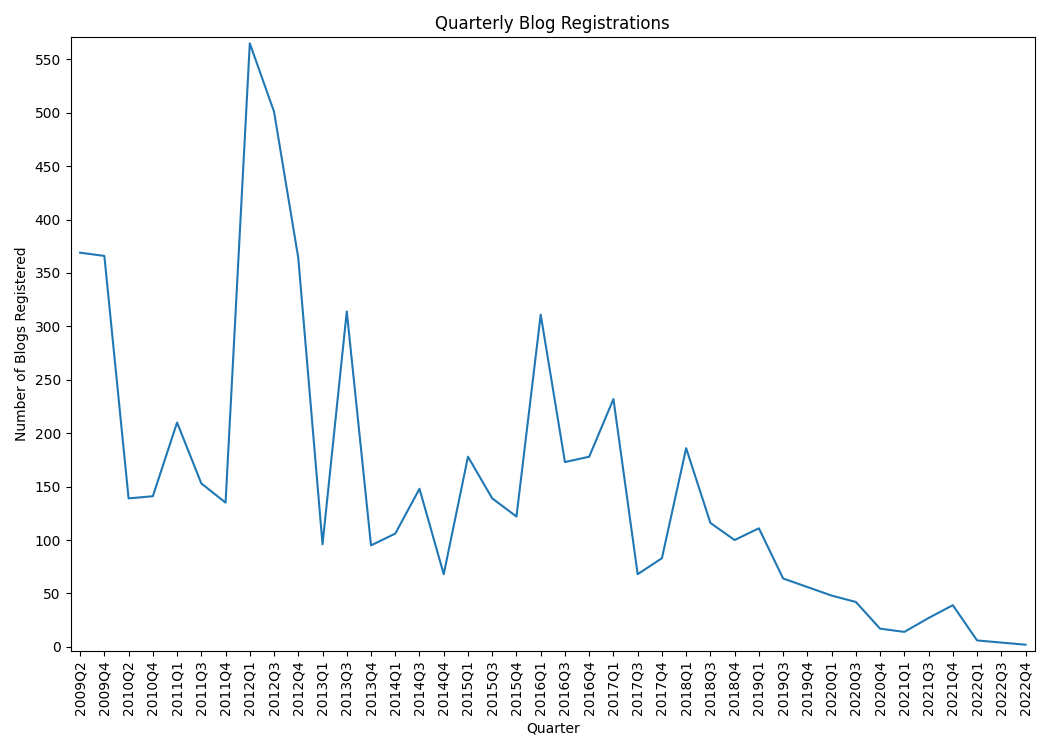
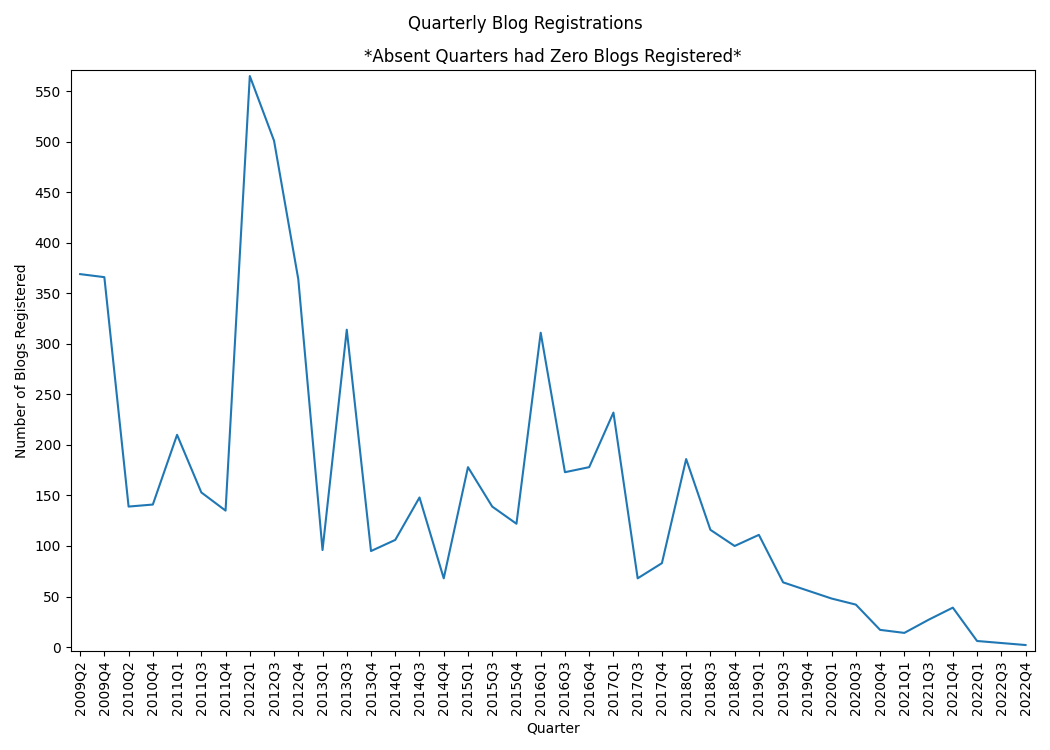
6/29

diff --git a/data.py b/data.py
@@ -35,7 +35,7 @@ class d:
                 index = username_list.index(f"{user}")
                 id = id_list[index]
 
-                user_site_ids, user_roles = self.wp.get_user_sites(id,cnx)
+                user_site_ids, user_roles, user_sites = self.wp.get_user_sites(id,cnx)
 
                 if len(user_site_ids[id]) >= 15:
                     data = [f'{user}', f'{len(user_site_ids[id])}']
@@ -87,16 +87,21 @@ class d:
                 index = username_list.index(f"{user}")
                 id = id_list[index] #user_id
 
-                user_site_ids, user_roles = self.wp.get_user_sites(id,cnx)
-                for blog_id in user_site_ids:
-                    try:
-                        path = user_blogs[blog_id]
-                    except KeyError as ke:
-                        key.append(blog_id) #37
-                        continue
+                user_site_ids, user_roles, user_sites = self.wp.get_user_sites(id,cnx)
+                try:
+                    sites = user_site_ids[id]
 
-                    data = [f'{id}', f'{user}', f'{blog_id}', f'{path}']
-                    writer.writerow(data)
+                    for blog_id in user_site_ids[id]:
+                        try:
+                            path = user_blogs[blog_id]
+                        except KeyError as ke:
+                            key.append(blog_id) #37
+                            continue
+
+                        data = [f'{id}', f'{user}', f'{blog_id}', f'{path}']
+                        writer.writerow(data)
+                except KeyError as ke:
+                    continue
 
 
     def userdata_csv(self,username_list,id_list,user_dates,yearly_user_reg,cnx) -> None:
@@ -106,7 +111,7 @@ class d:
             writer.writerow(header)
 
             print("Fetching user information...")
-            for user in username_list:
+            for user in tqdm(username_list):
                 index = username_list.index(f"{user}")
                 id = id_list[index] #user_id
 
@@ -128,10 +133,10 @@ class d:
         wp.yearly_user_reg(yearly_user_reg, new_dates)
 
 
-    def sitestats_csv(self,username_list,id_list,outside_users,all_other_del_unique,nomads,cnx) -> None:
+    def sitestats_csv(self,username_list,outside_users,nomads,cnx) -> None:
         print("Fetching siteless users...")
         for id in tqdm(list(outside_users.keys())):
-            user_site_ids, user_roles = self.wp.get_user_sites(id,cnx)
+            user_site_ids, user_roles, user_sites = self.wp.get_user_sites(id,cnx)
         
             if len(user_roles) == 0:
                 nomads.append(id)
@@ -173,19 +178,16 @@ class d:
                 index = username_list.index(f"{user}")
                 user_id = id_list[index]
             
-                user_site_ids, user_roles = self.wp.get_user_sites(user_id,cnx)
+                user_site_ids, user_roles, user_sites = self.wp.get_user_sites(user_id,cnx)
             
-                for blog_id in user_site_ids:
+                for blog_id in user_sites:
                     try:
                         slug = user_blogs[blog_id]
                     except KeyError as ke:
                         key.append(blog_id) #37
                         continue
-                    
-                    try:
-                        year_month, last_updated = self.wp.get_site_info(blog_id,cnx)
-                    except ValueError as ve:
-                        pass
+
+                    year_month, last_updated = self.wp.get_site_info(blog_id,cnx)
                     
                     if year_month not in blogs_dates:
                         blogs_dates.append(year_month) 

diff --git a/main.py b/main.py
@@ -60,6 +60,7 @@ def main(blogs) -> None:
     for site in sites:
         """gets the list of users on a site"""        
         site_users = blogs.get_site_users(site, cnx)
+
         remaining_users = len(site_users)
         site_path = user_blogs[site]
          
@@ -108,17 +109,18 @@ def main(blogs) -> None:
     blog_deletion()
     user_deletion(outside_users)
     
-    # data.fetch_multisite_users(username_list,id_list, all_kept_users_unique,user_blogs,cnx)
-    # data.remove_multisite_admins()
+    data.sitestats_csv(username_list,outside_users,nomads,cnx)
+    
+    data.fetch_multisite_users(username_list,id_list, all_kept_users_unique,user_blogs,cnx)
+    data.remove_multisite_admins()
 
-    # data.user_sitedata_csv(username_list,id_list,user_blogs,key,cnx)
-    # data.userdata_csv(username_list, id_list,user_dates,yearly_user_reg,cnx)
+    data.user_sitedata_csv(username_list,id_list,user_blogs,key,cnx)
+    data.userdata_csv(username_list, id_list,user_dates,yearly_user_reg,cnx)
 
-    data.sitestats_csv(username_list,id_list,outside_users,all_other_del_unique,nomads,cnx)
-    # data.sitedata_csv(username_list,id_list,user_blogs,blogs_dates,yearly_reg,key,cnx)
-    # print(len(nomads))
-    # data.plugins_csv(cnx)
-    # data.themes_csv(cnx)
+    data.sitedata_csv(username_list,id_list,user_blogs,blogs_dates,yearly_reg,key,cnx)
+
+    data.plugins_csv(cnx)
+    data.themes_csv(cnx)
 
     cnx.close()
     get_stats(inactive_data, outside_data, sites, all_kept_sites, all_del_sites, id_username)

diff --git a/wordpress.py b/wordpress.py
@@ -243,8 +243,7 @@ class wp:
         
         for r in results:
             try:
-                site_id = int(r[2].split("_")[1])
-                sites.append(site_id)
+                sites.append(int(r[2].split("_")[1]))
                 site_ids[user_id] = sites
             except ValueError as ve:
                 continue
@@ -260,7 +259,7 @@ class wp:
 
         cursor.close()
 
-        return site_ids, site_roles
+        return site_ids, site_roles, sites
 
 
     def get_site_plugins(self,blog_id:int,mysql) -> list[str]:
@@ -465,7 +464,9 @@ class wp:
         ax2.tick_params(axis='x', labelrotation = 90)
         ax2.set_yticks(np.arange(min(quarterly_values)-2, max(quarterly_values), 50))
 
-        ax2.set_title("Quarterly Blog Registrations")
+        fig2.suptitle("Quarterly Blog Registrations")
+        # ax2.set_title("Quarterly Blog Registrations")
+        ax2.set_title("*Absent Quarters had Zero Blogs Registered*")
         ax2.set_xlabel("Quarter")
         ax2.set_ylabel("Number of Blogs Registered")
         ax2.margins(x=0.01, y=0.01)
